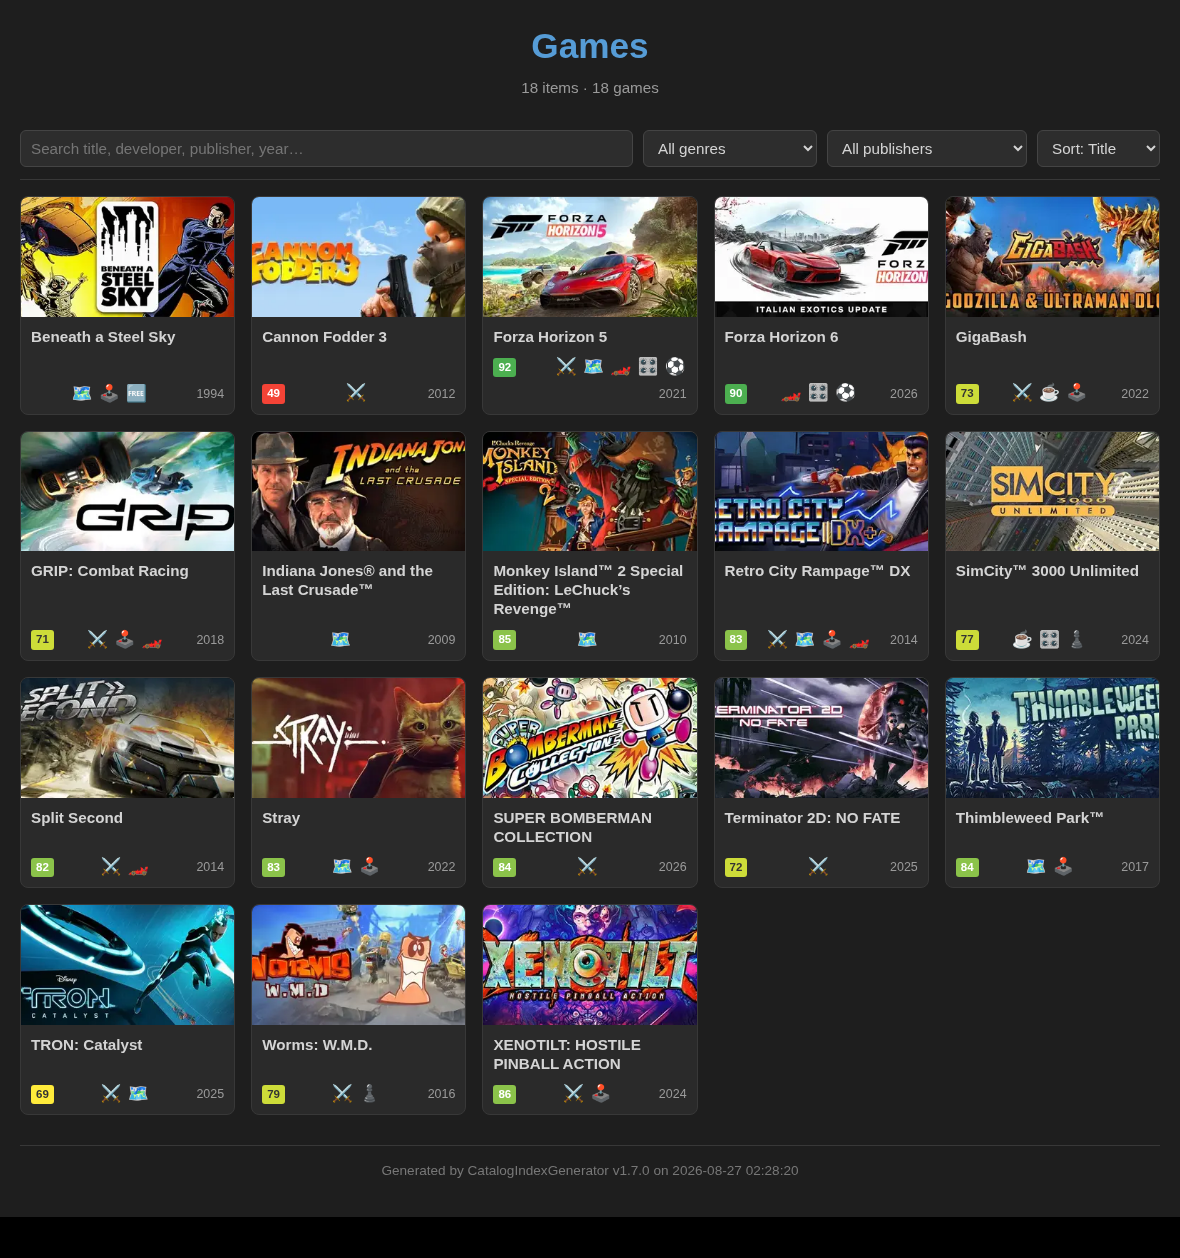
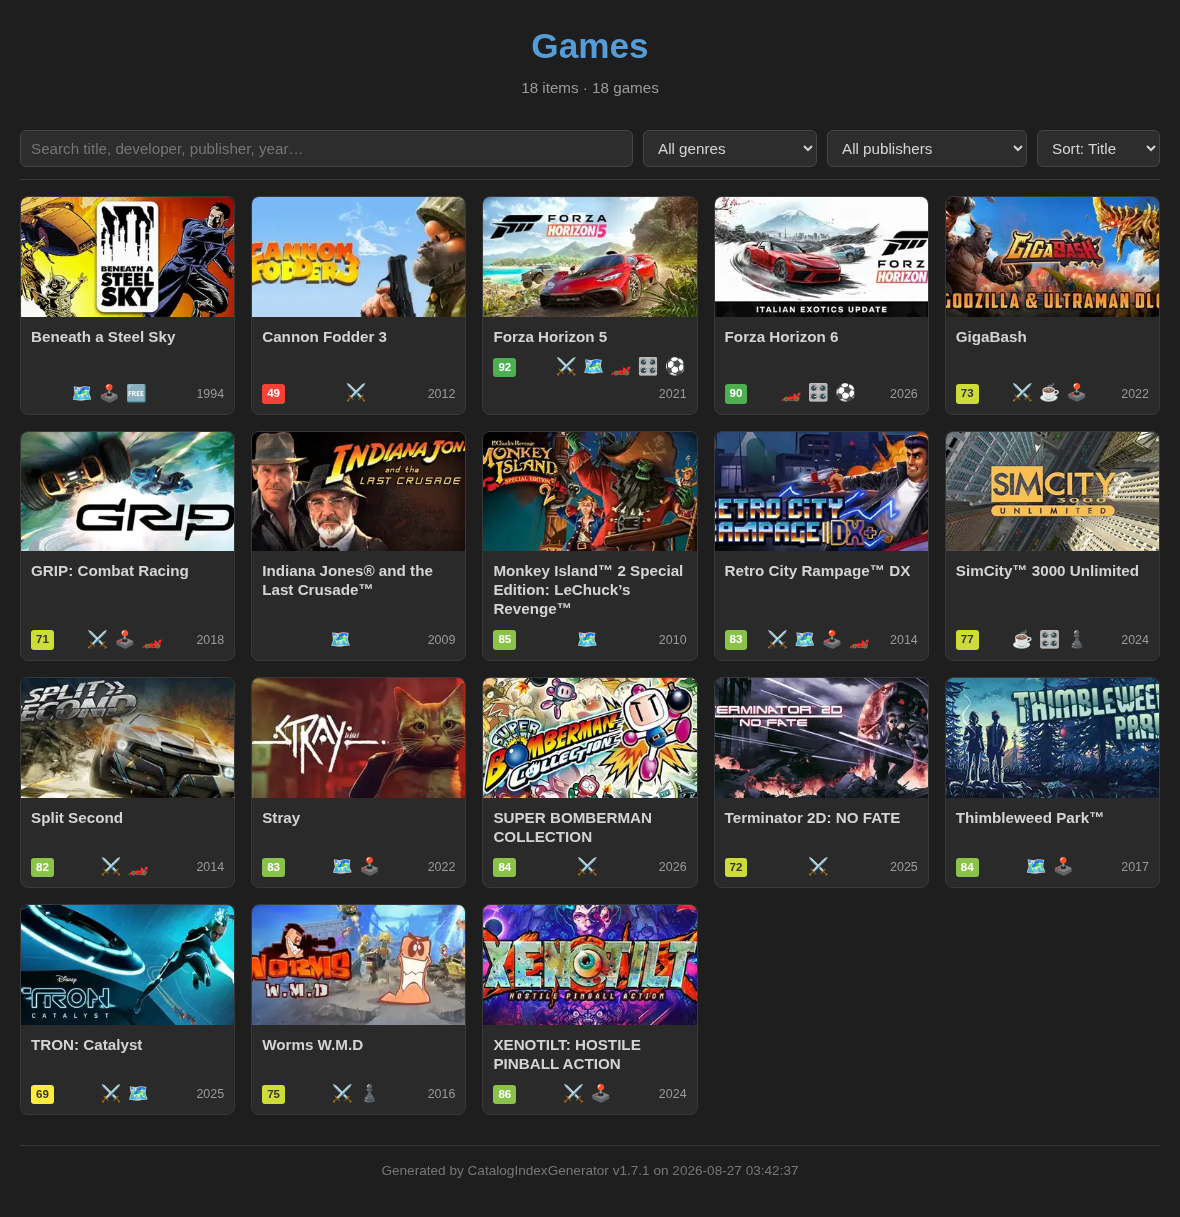
Release 1.7.1 — pick the game the folder actually names
Steam ranks a sequel or a knockoff above the game itself often enough that
its first result cannot be trusted, and the exact-match test meant to catch
that compared raw names — the store writes "Thimbleweed Park™", a folder
cannot, so the test never fired and the page came back as Thimbleweed Park 2.
Names are now compared without punctuation or trademark symbols, and a result
whose name merely starts with the folder's beats the store's own ranking,
which is what tells "GRIP: Combat Racing" from "Half Grip".

Dots in a release name are separators, so all of them were turned into
spaces — renaming Worms W.M.D into "Worms W M D", in the search and on the
page. A dot flanked by single letters belongs to an acronym and is kept.

Across a 52-folder library one other resolution changes: STAR WARS -
Battlefront no longer lands on Battlefront II.

diff --git a/src/x_info_generators/game/fetchers.py b/src/x_info_generators/game/fetchers.py
@@ -14,6 +14,26 @@ from .. import __version__, REPO_URL
 USER_AGENT = f"GameInfoGenerator/{__version__} (I'm a kind scraper, called manually and used for personal use <3; +{REPO_URL})"
 
 
+def _match_key(name: str) -> str:
+    """Comparable form of a store title: no ™/®, no punctuation, single spaces."""
+    return re.sub(r"[^a-z0-9]+", " ", name.lower()).strip()
+
+
+def _pick_store_item(items: List[Dict[str, Any]], game_title: str) -> Dict[str, Any]:
+    """The search result that is the game asked for.
+
+    Steam ranks a sequel or a knockoff above the game itself often enough that
+    the first result cannot be trusted: "Thimbleweed Park" leads with
+    "Thimbleweed Park 2". Match on the punctuation-free form (the store name
+    carries ™ and colons a folder name cannot), then on a full leading word,
+    which is what tells "GRIP: Combat Racing" from "Half Grip".
+    """
+    key = _match_key(game_title)
+    return (next((i for i in items if _match_key(i.get("name", "")) == key), None)
+            or next((i for i in items if _match_key(i.get("name", "")).startswith(key + " ")), None)
+            or items[0])
+
+
 async def fetch_steam_data(session: aiohttp.ClientSession, game_title: str, log) -> Optional[Dict[str, Any]]:
     log(f"    {D.QUERY} Steam: Querying for '{game_title}'...")
     search_url = f"https://store.steampowered.com/api/storesearch/?term={urllib.parse.quote(game_title)}&l=english&cc=US"
@@ -26,13 +46,10 @@ async def fetch_steam_data(session: aiohttp.ClientSession, game_title: str, log)
                 return None
             search_results = await response.json()
             if search_results.get("total", 0) > 0 and search_results.get("items"):
-                best_match = None
-                for item in search_results["items"]:
-                    if game_title.lower() == item.get("name", "").lower():
-                        best_match = item
-                        break
-                if not best_match:
-                    best_match = search_results["items"][0]
+                best_match = _pick_store_item(search_results["items"], game_title)
+                if _match_key(best_match.get("name", "")) != _match_key(game_title):
+                    log(f"    {D.WARNING} Steam: no exact match for '{game_title}', "
+                        f"using '{best_match.get('name')}'.")
                 app_id = best_match.get("id")
                 if not game_data.get("name"):
                     game_data["name"] = best_match.get("name")

diff --git a/src/x_info_generators/game/processing.py b/src/x_info_generators/game/processing.py
@@ -98,6 +98,21 @@ def sanitize_search_term(name: str) -> str:
     return re.sub(r"\s{2,}", " ", name.translate(_SEARCH_NOISE)).strip()
 
 
+_ACRONYM_REGEX = re.compile(r'\b(?:[A-Za-z]\.){2,}')
+
+
+def _dots_to_spaces(name: str) -> str:
+    """Release names use dots as separators — acronyms do not: "W.M.D" and
+    "S.T.A.L.K.E.R." must keep theirs, or the store is asked for another game."""
+    out, last = [], 0
+    for m in _ACRONYM_REGEX.finditer(name):
+        out.append(name[last:m.start()].replace('.', ' '))
+        out.append(m.group(0))
+        last = m.end()
+    out.append(name[last:].replace('.', ' '))
+    return ''.join(out)
+
+
 def clean_game_title(raw_name: str) -> str:
     """Cleans a directory name to get a better game title for searching."""
     name = re.sub(r'\[.*?\]', '', raw_name)
@@ -112,7 +127,7 @@ def clean_game_title(raw_name: str) -> str:
         name = re.sub(tag_pattern, '', name, flags=re.IGNORECASE)
     name = re.sub(r'\s*\(.*?\)\s*', ' ', name)
     name = sanitize_search_term(name)
-    name = name.replace('.', ' ').replace('_', ' ')
+    name = _dots_to_spaces(name).replace('_', ' ')
     # Windows dir names can't contain ":", so a subtitle "Game: Subtitle" is stored
     # as "Game - Subtitle". Restore the colon: Steam search returns nothing for the
     # " - " form but matches on ":".

diff --git a/src/x_info_generators/__init__.py b/src/x_info_generators/__init__.py
@@ -1,2 +1,2 @@
-__version__ = "1.7.0"
+__version__ = "1.7.1"
 REPO_URL = "https://github.com/janroudaut/x-info-generators"

diff --git a/CHANGELOG.md b/CHANGELOG.md
@@ -5,6 +5,24 @@ This project adheres to [Semantic Versioning](https://semver.org/).
 
 ## [Unreleased]
 
+## [1.7.1] — 2026-08-27
+
+### Fixed
+- **A folder resolved to the wrong game on Steam.** The store ranks a sequel or
+  a knockoff above the game itself often enough that its first result cannot be
+  trusted, and the exact-match test that was meant to catch this compared raw
+  names: the store writes "Thimbleweed Park™", a folder cannot, so the test
+  never fired and the page came back as *Thimbleweed Park 2*. Titles are now
+  compared without punctuation or trademark symbols, and a result whose name
+  merely *starts* with the folder's is preferred over the store's own ranking —
+  which is what tells "GRIP: Combat Racing" from "Half Grip". When nothing
+  matches, the fallback is unchanged but says so in the log.
+- **Acronyms lost their dots.** A release name uses dots as separators, so they
+  were all turned into spaces — which also renamed *Worms W.M.D* into "Worms
+  W M D", both in the search and on the page. A dot flanked by single letters
+  belongs to an acronym and is now kept, leaving *S.T.A.L.K.E.R.* and
+  *F.E.A.R.* intact too.
+
 ## [1.7.0] — 2026-08-15
 
 ### Added
